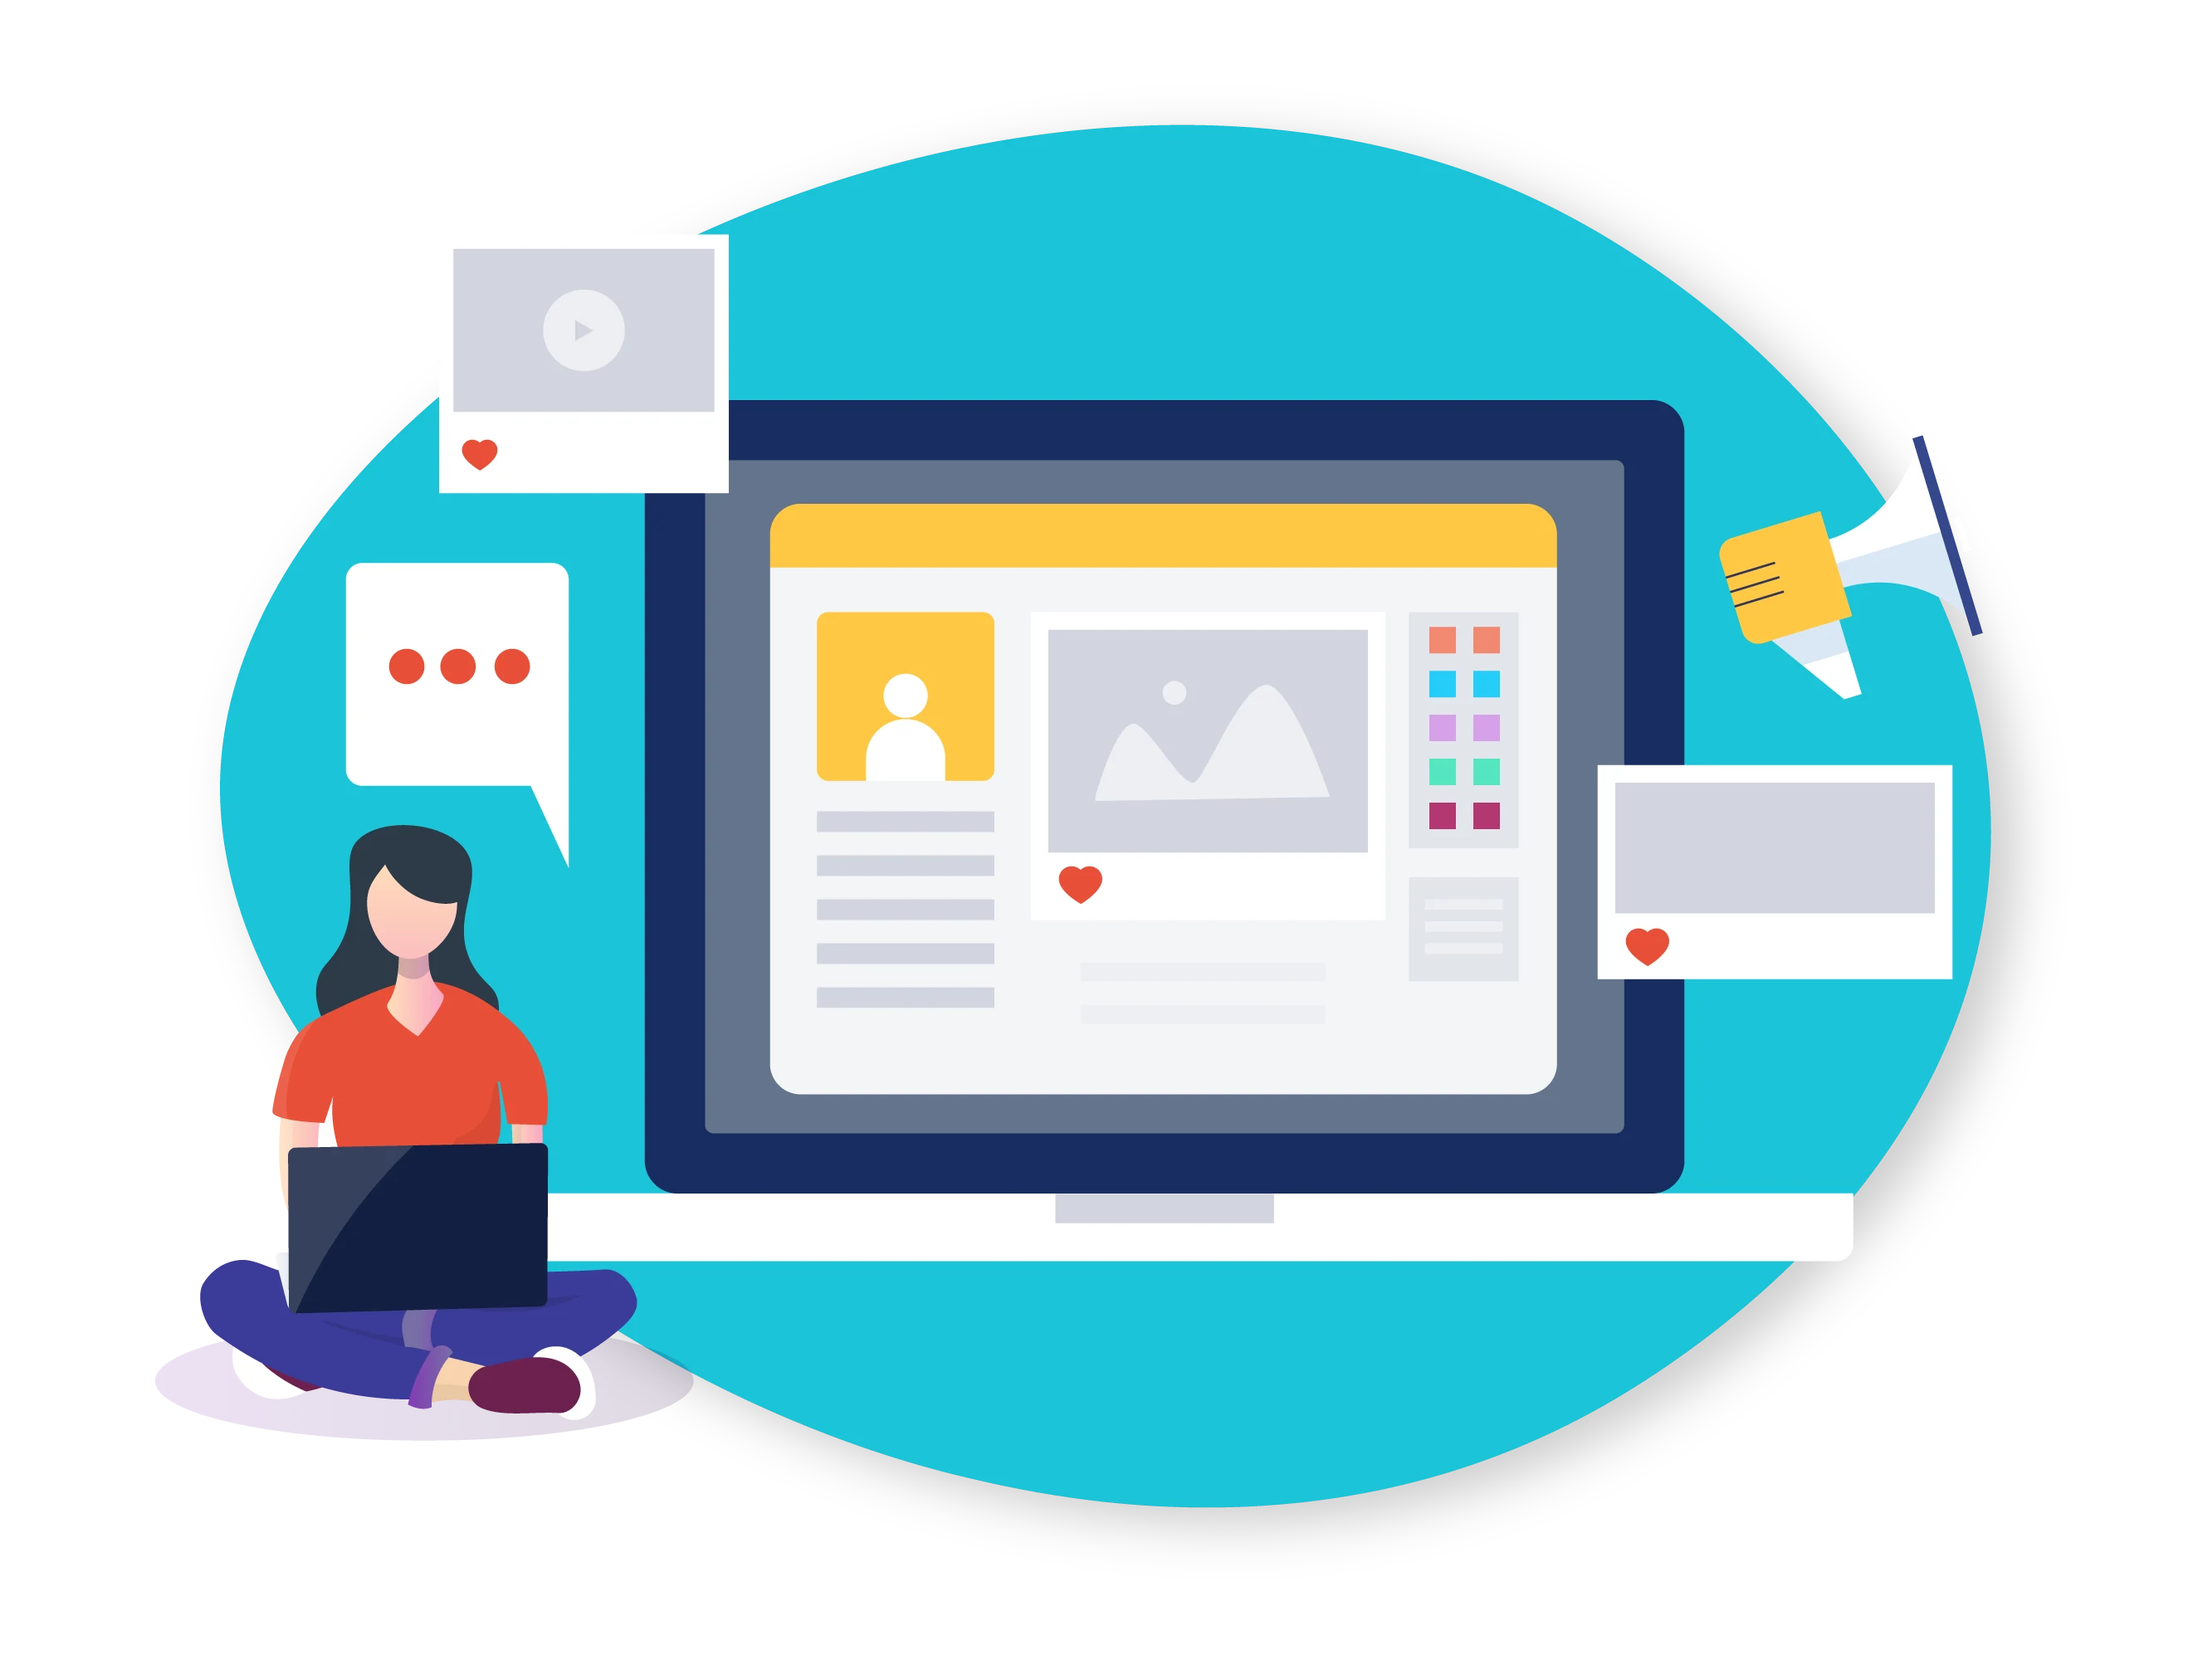
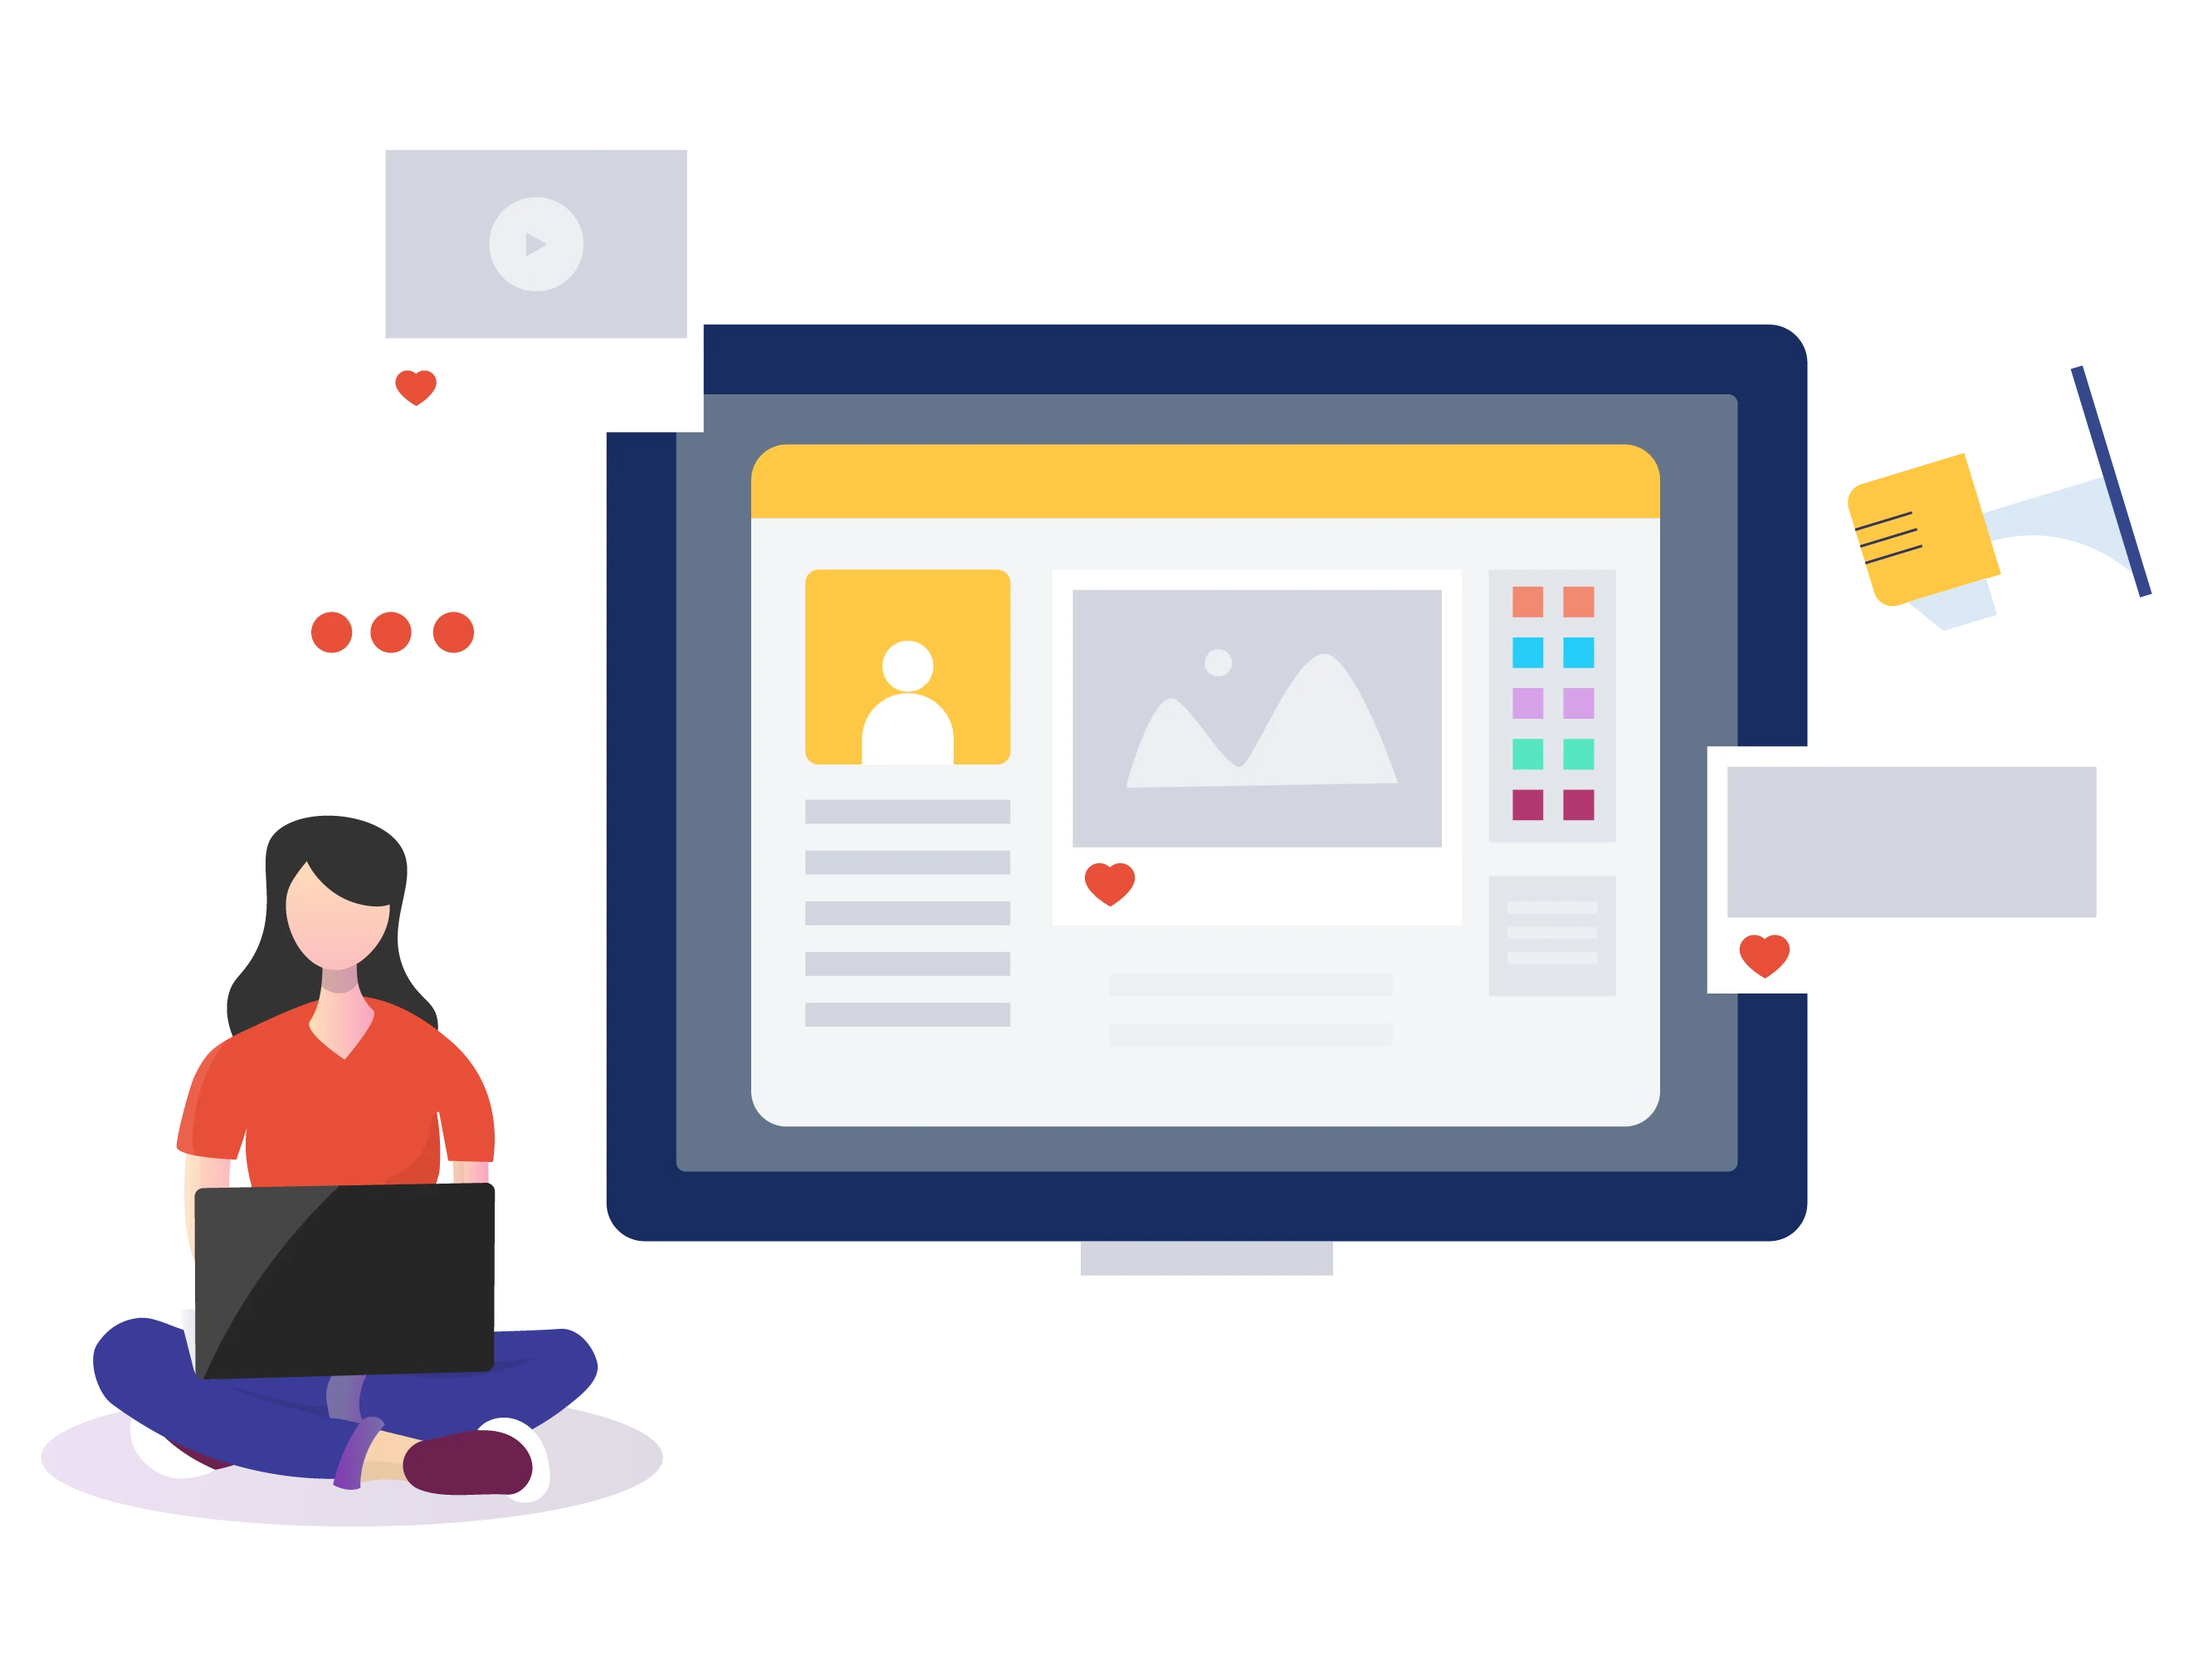
feat(social-media): streamline hero to singular front graphic and blue background blob

diff --git a/src/data/socialMediaData.js b/src/data/socialMediaData.js
@@ -42,28 +42,9 @@ export const heroData = {
       width: 2642,
       height: 2000,
       depth: -18,
-      style: "width: 64%; left: 18%; top: 10%;",
+      style: "width: 70%; left: 15%; top: 10%;",
     },
-    floats: [
-      {
-        src: "/grm-web-assets/999-hearts-likes-graphic.svg",
-        alt: "",
-        width: 746,
-        height: 780,
-        depth: -28,
-        className: "hero-stage__float--sub",
-        style: "width: 24%; left: 6%; bottom: 12%;",
-      },
-      {
-        src: "/grm-web-assets/3-arrows-up-graphic.svg",
-        alt: "",
-        width: 746,
-        height: 780,
-        depth: -38,
-        className: "hero-stage__float--growth",
-        style: "width: 22%; right: 6%; top: 8%;",
-      },
-    ],
+    floats: [],
   },
   marqueeItems: [
     { icon: "campaign", label: "Multi-Platform Social Strategy" },

diff --git a/working.md b/working.md
@@ -43,11 +43,16 @@
       - Each blob's corner placement mirrors its actual geometry: Blob 1's protruding circular lobes are lower-left and top-right; Blob 2's protruding lobes are top-left and bottom-right.
     - **Computer Screen Exception:** Device screen graphics (such as blue and transparent computer screens / monitors) can hold **1 additional graphic within the screen display area**:
       - 1 computer screen, 1 small graphic within screen area (never a screen/device graphic), 2 smalls on opposite corners, and optionally 1 background.
+    - **SERVICE HERO TEMPLATE RULE - Singular Front Graphic + Background Graphic:**
+      - For all `/services/*` hero sections, the `.hero-stage` composition strictly features:
+        1. **1 background blue graphic** (`blob`: `blue-circular-background-graphic.svg` or `blue-circular-background-2-graphic.svg`).
+        2. **1 singular front centerpiece graphic** (`main`, ~68–72% width, centered over blob).
+        3. **0 floating accent graphics** (`floats: []`), keeping the hero clean, focused, and free of peripheral clutter.
     - **GSAP & Inline Styles Rule:** Never use `clearProps: "all"` on elements that rely on inline styles (`style="width: ...; left: ...;"`) for sizing or layout. Always use `clearProps: "transform,opacity"` to prevent browsers from reverting to intrinsic SVG dimensions and blowing up elements.
     - **No sprawling connector lines:** Do not include meandering dashed lines across stages or cards that create visual clutter and disorganized overlapping.
   1. **Individual Service Pages (`/services/*`):** Must strictly follow the modular template architecture implemented across [`src/pages/services/web-design.astro`](file:///Users/jamesgreen/software_engineer/goodrep-media-frontend/src/pages/services/web-design.astro), [`ecommerce-web-design.astro`](file:///Users/jamesgreen/software_engineer/goodrep-media-frontend/src/pages/services/ecommerce-web-design.astro), [`email-marketing.astro`](file:///Users/jamesgreen/software_engineer/goodrep-media-frontend/src/pages/services/email-marketing.astro), and [`local-seo.astro`](file:///Users/jamesgreen/software_engineer/goodrep-media-frontend/src/pages/services/local-seo.astro):
      - **Modular Component Breakdown:** Page files (`src/pages/services/*.astro`) are lightweight orchestration shells (~30–40 lines) with zero raw data or inline CSS/scripts. They import structured data from `src/data/*Data.js` and render modular components from `src/components/`:
-       - `ServiceHero.astro`: Light background (`var(--color-bg)`) with radial cyan dot grid mask, pill `.breadcrumb`, `.service-hero__kicker`, compact single-line `.service-hero__title-top` (`var(--color-cyan)`) + 3D GSAP rotating `.service-hero__word` (`var(--color-primary)`), `.service-hero__checklist-card` (white card with `4px solid var(--color-cyan)` left border), `.service-hero__actions` (`Contact Us` + `Send Us a Message` modal trigger), multi-layered `.hero-stage` (`/Asset 2.webp` blob + main graphic + 4 floating satellites with pointer parallax), and dark bottom `.marquee` strip (`border-bottom: 4px solid var(--color-cyan)`).
+       - `ServiceHero.astro`: Light background (`var(--color-bg)`) with radial cyan dot grid mask, pill `.breadcrumb`, `.service-hero__kicker`, compact single-line `.service-hero__title-top` (`var(--color-cyan)`) + 3D GSAP rotating `.service-hero__word` (`var(--color-primary)`), `.service-hero__checklist-card` (white card with `4px solid var(--color-cyan)` left border), `.service-hero__actions` (`Contact Us` + `Send Us a Message` modal trigger), streamlined `.hero-stage` (1 background blue graphic + 1 singular front graphic with pointer parallax, 0 corner accent floats), and dark bottom `.marquee` strip (`border-bottom: 4px solid var(--color-cyan)`).
        - `StartsSection.astro`: Multi-plane scroll parallax media stage with blob, floating satellites, glassmorphic `.starts-feature__pill`, and animated SVG circular progress `.mobile-callout`. Supports `mediaFirst` (left/right) layout and `light`/`bg` backgrounds.
        - `StatsBand.astro`: Dark geometric pattern with 50% opacity dark overlay (`linear-gradient(rgba(0, 0, 0, 0.5), rgba(0, 0, 0, 0.5))`), `border-top: 4px solid var(--color-cyan)`, glassmorphic `.stat-card` items, live GSAP number counters, and gradient meter bars.
        - `PillarsSection.astro`: 3 horizontal `.pillar-row-card` items (`4px solid var(--color-cyan)` left border, numbered badges, pill tags) paired with multi-plane parallax stage.
@@ -435,4 +440,8 @@
       - Replaced `hero-stage__main` image in `src/data/socialMediaData.js` with `woman-engaged-social-media-image.webp` (2642x2000 cutout) for `/services/social-media` and `/services/social-media-marketing`.
       - Verified layout sizing and centering over the background blob with zero text occlusion.
       - Verified build: all 151 pages generated cleanly with 0 errors.
+  28. **Streamlined Service Hero Template (Singular Front Graphic + Background Blob):**
+      - Updated `src/data/socialMediaData.js` hero stage to feature solely `woman-engaged-social-media-image.webp` (70% width, centered at `left: 15%; top: 10%`) paired with `blue-circular-background-graphic.svg`, removing peripheral accent floats.
+      - Updated `working.md` Master Page Templates to formalize the Service Hero Template Rule: exactly 1 background blue graphic + 1 front centerpiece graphic, 0 smaller accent floats.
+      - Verified production build: all 151 pages generated cleanly with 0 errors.
 - **Current Objective:** Proceed to Step 8: End-to-end responsiveness, accessibility auditing, and performance optimization across all service pages and core routes.
